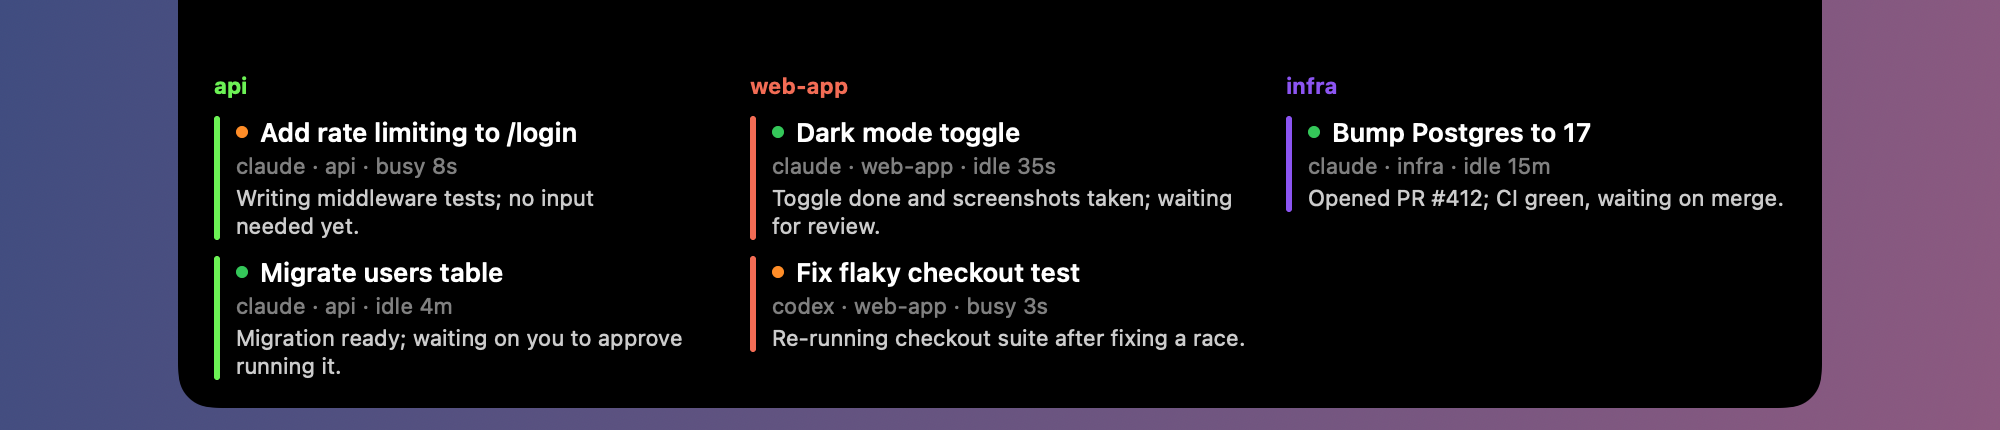
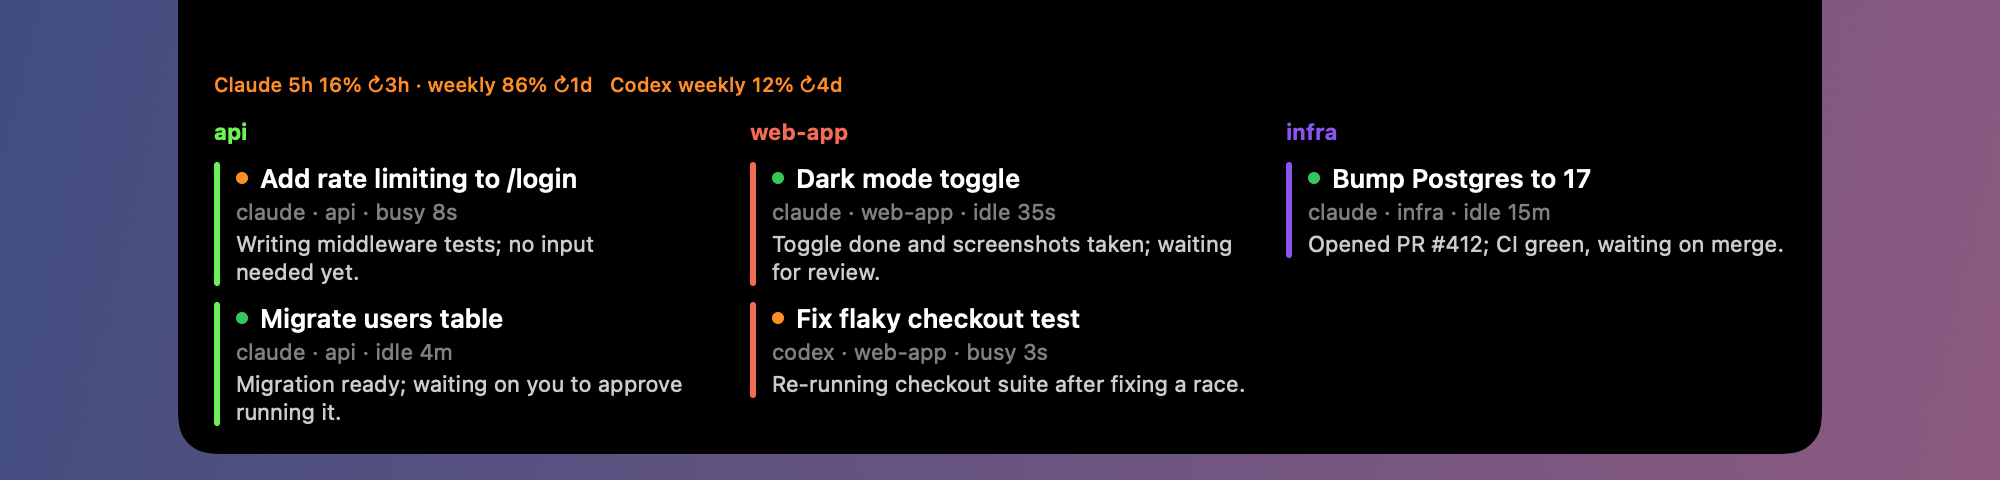
feat(limits): read Claude and Codex limits from local caches instead of OAuth calls
Shows Claude's weekly window too (previously hidden), colors the line by the
tightest window, and drops hooks/limits.sh, which sent tokens on the command line.

diff --git a/notch/Notch.swift b/notch/Notch.swift
@@ -27,8 +27,7 @@ func focus(_ s: Session) {
 
 final class Store: ObservableObject {
     @Published var sessions: [Session] = []
-    @Published var limits: String = ""
-    var limitsAt = Date.distantPast
+    @Published var limits = Limits(text: "", max_used: 0)
     @Published var finished: Session? // last session whose turn just ended, shown briefly under the notch
     let ccs: String = ProcessInfo.processInfo.environment["CCS_BIN"]
         ?? binDir.appendingPathComponent("ccs").path
@@ -43,21 +42,12 @@ final class Store: ObservableObject {
     func refresh() {
         let ccs = self.ccs
         DispatchQueue.global().async {
-            let p = Process()
-            p.executableURL = URL(fileURLWithPath: ccs)
-            p.arguments = ["--json"]
-            let pipe = Pipe()
-            p.standardOutput = pipe
-            guard (try? p.run()) != nil else { return }
-            let data = pipe.fileHandleForReading.readDataToEndOfFile()
-            p.waitUntilExit()
-            if Date().timeIntervalSince(self.limitsAt) > 60 {
-                self.limitsAt = Date()
-                let l = readLimits()
-                DispatchQueue.main.async { self.limits = l }
+            let sessions = try? JSONDecoder().decode([Session].self, from: run(ccs, ["--json"]))
+            let limits = try? JSONDecoder().decode(Limits.self, from: run(ccs, ["--limits", "--json"]))
+            DispatchQueue.main.async {
+                if let limits { self.limits = limits }
+                if let sessions { self.update(sessions) }
             }
-            guard let s = try? JSONDecoder().decode([Session].self, from: data) else { return }
-            DispatchQueue.main.async { self.update(s) }
         }
     }
 
@@ -73,15 +63,23 @@ final class Store: ObservableObject {
     }
 }
 
-/// One line of Claude and Codex limits from hooks/limits.sh (next to this repo's build/ folder).
-func readLimits() -> String {
+/// `ccs --limits --json`: one display line plus the tightest window's % used, for coloring.
+struct Limits: Decodable {
+    let text: String
+    let max_used: Double
+    var color: Color { max_used >= 95 ? .red : max_used >= 80 ? .orange : .secondary }
+}
+
+func run(_ bin: String, _ args: [String]) -> Data {
     let p = Process()
-    p.executableURL = binDir.deletingLastPathComponent().appendingPathComponent("hooks/limits.sh")
+    p.executableURL = URL(fileURLWithPath: bin)
+    p.arguments = args
     let pipe = Pipe()
     p.standardOutput = pipe
-    guard (try? p.run()) != nil else { return "" }
-    let out = pipe.fileHandleForReading.readDataToEndOfFile()
-    return String(decoding: out, as: UTF8.self).trimmingCharacters(in: .whitespacesAndNewlines)
+    guard (try? p.run()) != nil else { return Data() }
+    let data = pipe.fileHandleForReading.readDataToEndOfFile()
+    p.waitUntilExit()
+    return data
 }
 
 func ago(_ s: Int) -> String { s < 60 ? "\(s)s" : s < 3600 ? "\(s / 60)m" : "\(s / 3600)h" }
@@ -111,8 +109,8 @@ struct NotchView: View {
                     }
                 }
                 .onGeometryChange(for: CGFloat.self) { $0.size.height } action: { columnsHeight = $0 }
-                if !store.limits.isEmpty {
-                    Text(store.limits).font(.system(size: 10, weight: .medium)).foregroundStyle(.secondary)
+                if !store.limits.text.isEmpty {
+                    Text(store.limits.text).font(.system(size: 10, weight: .medium)).foregroundStyle(store.limits.color)
                 }
                 // Hug the content; only scroll once it outgrows the cap (a flexible frame here made the panel always 520pt tall).
                 let maxHeight = 520 - notch.height
@@ -236,6 +234,8 @@ struct NotchApp {
               let png = NSBitmapImageRep(data: tiff)?.representation(using: .png, properties: [:]) else { return print("render failed: \(name)") }
         try? png.write(to: URL(fileURLWithPath: dir).appendingPathComponent(name))
     }
-    save(NotchView(store: Store(sample: sample), notch: notch, open: true), "notch-open.png", height: 215)
+    let withLimits = Store(sample: sample)
+    withLimits.limits = Limits(text: "Claude 5h 16% ↻3h · weekly 86% ↻1d   Codex weekly 12% ↻4d", max_used: 86)
+    save(NotchView(store: withLimits, notch: notch, open: true), "notch-open.png", height: 240)
     save(NotchView(store: Store(sample: sample, finished: sample[2]), notch: notch), "notch-finished.png", height: 78)
 }

diff --git a/src/limits.rs b/src/limits.rs
@@ -1,0 +1,136 @@
+//! Usage limits for the signed-in Claude and Codex accounts, read from what each tool already
+//! caches on disk: no tokens, no network. Numbers are as fresh as the tool's last request.
+use crate::{ago, now, read_jsonl};
+use serde_json::{json, Value};
+use std::{fs, path::{Path, PathBuf}};
+
+pub struct Window {
+    pub label: String,
+    pub used: f64,
+    pub resets_at: Option<u64>,
+}
+
+/// `[(tool, windows)]` for each tool that has cached limits.
+pub fn read(home: &Path) -> Vec<(&'static str, Vec<Window>)> {
+    [("Claude", claude(home)), ("Codex", codex(home))].into_iter().filter(|(_, w)| !w.is_empty()).collect()
+}
+
+/// Claude Code caches its /usage numbers in ~/.claude.json.
+fn claude(home: &Path) -> Vec<Window> {
+    let v: Value = serde_json::from_str(&fs::read_to_string(home.join(".claude.json")).unwrap_or_default()).unwrap_or_default();
+    let u = &v["cachedUsageUtilization"]["utilization"];
+    [("5h", "five_hour"), ("weekly", "seven_day")].iter()
+        .filter_map(|(label, key)| Some(window(label.to_string(), u[*key]["utilization"].as_f64()?,
+            u[*key]["resets_at"].as_str().and_then(parse_iso))))
+        .collect()
+}
+
+/// Codex writes `rate_limits` into its session files on every turn; use the newest one.
+fn codex(home: &Path) -> Vec<Window> {
+    let newest_first = |dir: &Path| -> Vec<PathBuf> {
+        let mut v: Vec<PathBuf> = fs::read_dir(dir).into_iter().flatten().flatten().map(|e| e.path()).collect();
+        v.sort_unstable_by(|a, b| b.cmp(a)); // YYYY/MM/DD/rollout-<timestamp> sorts by time
+        v
+    };
+    let files = newest_first(&home.join(".codex/sessions")).into_iter()
+        .flat_map(|y| newest_first(&y)).flat_map(|m| newest_first(&m)).flat_map(|d| newest_first(&d))
+        .take(20); // bounded: don't read every old session if none has limits
+    for f in files {
+        let lines = read_jsonl(&f);
+        let Some(rl) = lines.iter().rev().map(|l| &l["payload"]["rate_limits"]).find(|r| r.is_object()) else { continue };
+        return ["primary", "secondary"].iter()
+            .filter_map(|k| {
+                let w = &rl[*k];
+                Some(window(label(w["window_minutes"].as_u64()? * 60), w["used_percent"].as_f64()?, w["resets_at"].as_u64()))
+            })
+            .collect();
+    }
+    vec![]
+}
+
+/// A window whose reset time has passed is back to 0%, even if the cache hasn't caught up.
+fn window(label: String, used: f64, resets_at: Option<u64>) -> Window {
+    let used = if resets_at.is_some_and(|r| r <= now()) { 0.0 } else { used };
+    Window { label, used, resets_at }
+}
+
+fn label(secs: u64) -> String {
+    match secs {
+        604_800 => "weekly".into(),
+        s if s % 3600 == 0 => format!("{}h", s / 3600),
+        s => format!("{}m", s / 60),
+    }
+}
+
+/// "Claude 5h 9% ↻2h · weekly 93% ↻21h   Codex weekly 1% ↻1d"
+pub fn line(limits: &[(&str, Vec<Window>)]) -> String {
+    limits.iter().map(|(tool, ws)| {
+        let parts: Vec<String> = ws.iter().map(|w| {
+            let reset = w.resets_at.map(|r| format!(" ↻{}", ago(r.saturating_sub(now())))).unwrap_or_default();
+            format!("{} {:.0}%{reset}", w.label, w.used)
+        }).collect();
+        format!("{tool} {}", parts.join(" · "))
+    }).collect::<Vec<_>>().join("   ")
+}
+
+/// The tightest window decides how close you are to being blocked.
+pub fn to_json(limits: &[(&str, Vec<Window>)]) -> Value {
+    let max = limits.iter().flat_map(|(_, w)| w).map(|w| w.used).fold(0.0, f64::max);
+    json!({ "text": line(limits), "max_used": max })
+}
+
+/// Unix seconds from "2026-11-17T16:59:59.538613+00:00" or "...Z".
+fn parse_iso(s: &str) -> Option<u64> {
+    let n = |r: std::ops::Range<usize>| s.get(r)?.parse::<i64>().ok();
+    let (y, mo, d, h, mi, se) = (n(0..4)?, n(5..7)?, n(8..10)?, n(11..13)?, n(14..16)?, n(17..19)?);
+    // offset: last '+' or '-' after the time part, e.g. "+02:00"
+    let tail = &s[19..];
+    let offset = tail.rfind(['+', '-']).map_or(0, |i| {
+        let sign = if tail.as_bytes()[i] == b'-' { -1 } else { 1 };
+        let hh = tail.get(i + 1..i + 3).and_then(|x| x.parse::<i64>().ok()).unwrap_or(0);
+        let mm = tail.get(i + 4..i + 6).and_then(|x| x.parse::<i64>().ok()).unwrap_or(0);
+        sign * (hh * 3600 + mm * 60)
+    });
+    // days since 1970-01-01 (Howard Hinnant's days_from_civil)
+    let yy = if mo <= 2 { y - 1 } else { y };
+    let era = yy.div_euclid(400);
+    let yoe = yy - era * 400;
+    let doy = (153 * ((mo + 9) % 12) + 2) / 5 + d - 1;
+    let days = era * 146_097 + yoe * 365 + yoe / 4 - yoe / 100 + doy - 719_468;
+    u64::try_from(days * 86_400 + h * 3600 + mi * 60 + se - offset).ok()
+}
+
+#[cfg(test)]
+mod tests {
+    use super::*;
+
+    #[test]
+    fn parses_iso_times() {
+        assert_eq!(parse_iso("1970-01-01T00:00:00Z"), Some(0));
+        assert_eq!(parse_iso("2026-11-17T16:59:59.538613+00:00"), Some(1_794_934_799));
+        assert_eq!(parse_iso("2026-11-17T18:59:59+02:00"), Some(1_794_934_799));
+    }
+
+    #[test]
+    fn reads_both_tools_and_flags_the_tightest_window() {
+        let home = std::env::temp_dir().join(format!("ccs-limits-{}", std::process::id()));
+        let day = home.join(".codex/sessions/2026/11/17");
+        fs::create_dir_all(&day).unwrap();
+        let soon = now() + 3600;
+        fs::write(home.join(".claude.json"), json!({"cachedUsageUtilization": {"utilization": {
+            "five_hour": {"utilization": 9, "resets_at": "1970-01-01T00:00:00Z"},  // already reset -> 0%
+            "seven_day": {"utilization": 93, "resets_at": "2999-01-01T00:00:00Z"}}}}).to_string()).unwrap();
+        fs::write(day.join("rollout-b.jsonl"), "{\"type\":\"session_meta\"}\n").unwrap(); // newest, no limits
+        fs::write(day.join("rollout-a.jsonl"), json!({"payload": {"rate_limits": {
+            "primary": {"used_percent": 1.0, "window_minutes": 10080, "resets_at": soon}, "secondary": null}}}).to_string()).unwrap();
+
+        let l = read(&home);
+        fs::remove_dir_all(&home).ok();
+        let summary: Vec<_> = l.iter().map(|(t, ws)| (*t, ws.iter().map(|w| (w.label.clone(), w.used)).collect::<Vec<_>>())).collect();
+        assert_eq!(summary, [
+            ("Claude", vec![("5h".to_string(), 0.0), ("weekly".to_string(), 93.0)]),
+            ("Codex", vec![("weekly".to_string(), 1.0)]),
+        ]);
+        assert_eq!(to_json(&l)["max_used"], 93.0);
+    }
+}

diff --git a/src/main.rs b/src/main.rs
@@ -1,5 +1,7 @@
 //! ccs: list active Claude Code and Codex sessions.
-//! Usage: ccs [--json] [--watch]
+//! Usage: ccs [--json] [--watch] | ccs --limits [--json]
+mod limits;
+
 use serde_json::{json, Value};
 use std::{
     env, fs,
@@ -26,6 +28,11 @@ fn main() {
     let args: Vec<String> = env::args().collect();
     let as_json = args.iter().any(|a| a == "--json");
     let watch = args.iter().any(|a| a == "--watch" || a == "-w");
+    if args.iter().any(|a| a == "--limits") {
+        let l = limits::read(&home());
+        println!("{}", if as_json { limits::to_json(&l).to_string() } else { limits::line(&l) });
+        return;
+    }
     loop {
         let sessions = collect(&home(), &open_codex_rollouts());
         if as_json {

diff --git a/README.md b/README.md
@@ -23,6 +23,7 @@ web-app
 ```
 
 - `ccs`: list sessions (`--watch` to refresh, `--json` for tools)
+- `ccs --limits`: Claude 5h/weekly and Codex usage, read from what each tool caches locally (no tokens or network). In the notch it turns orange at 80% and red at 95%.
 - `notch`: macOS overlay; hover the notch to see sessions
 - `hooks/summarize.sh`: Claude Code Stop hook that writes a one-line AI summary per session (Haiku, at most once per 3 min per session)
 
